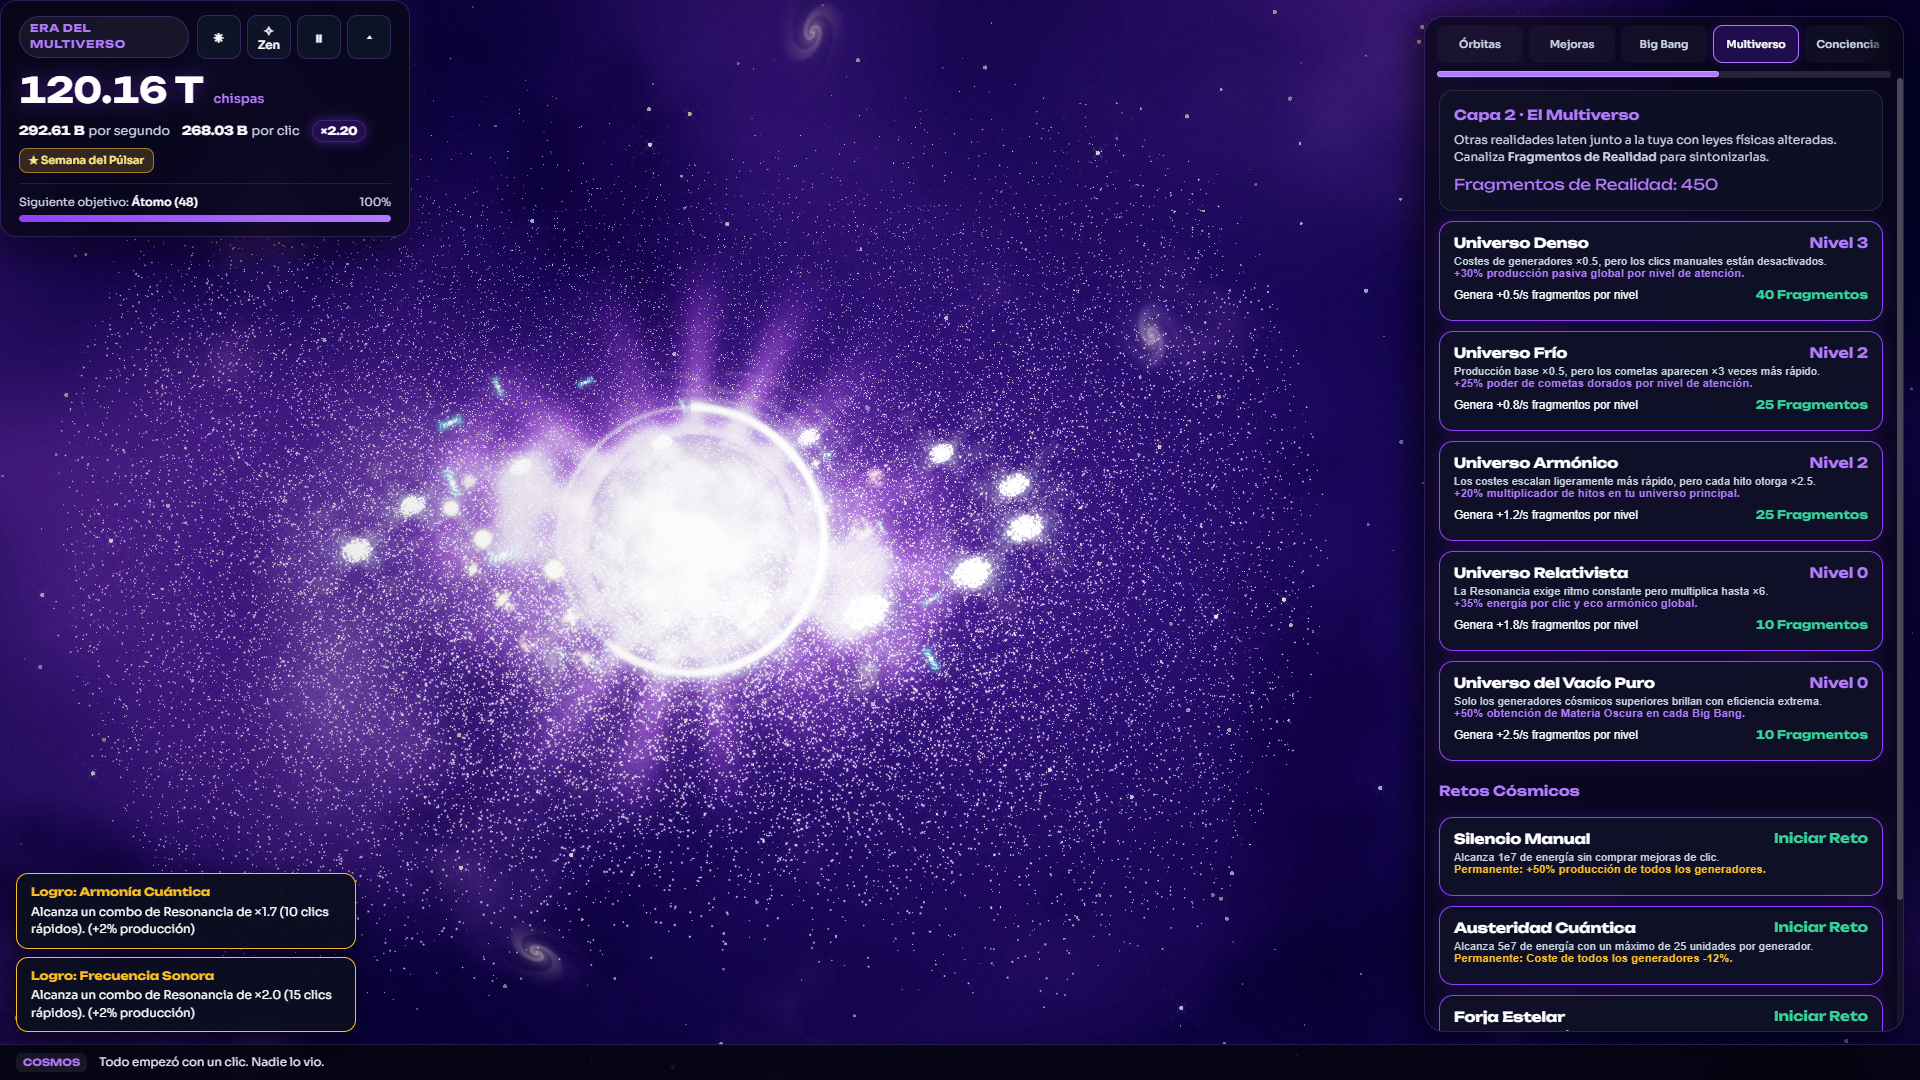
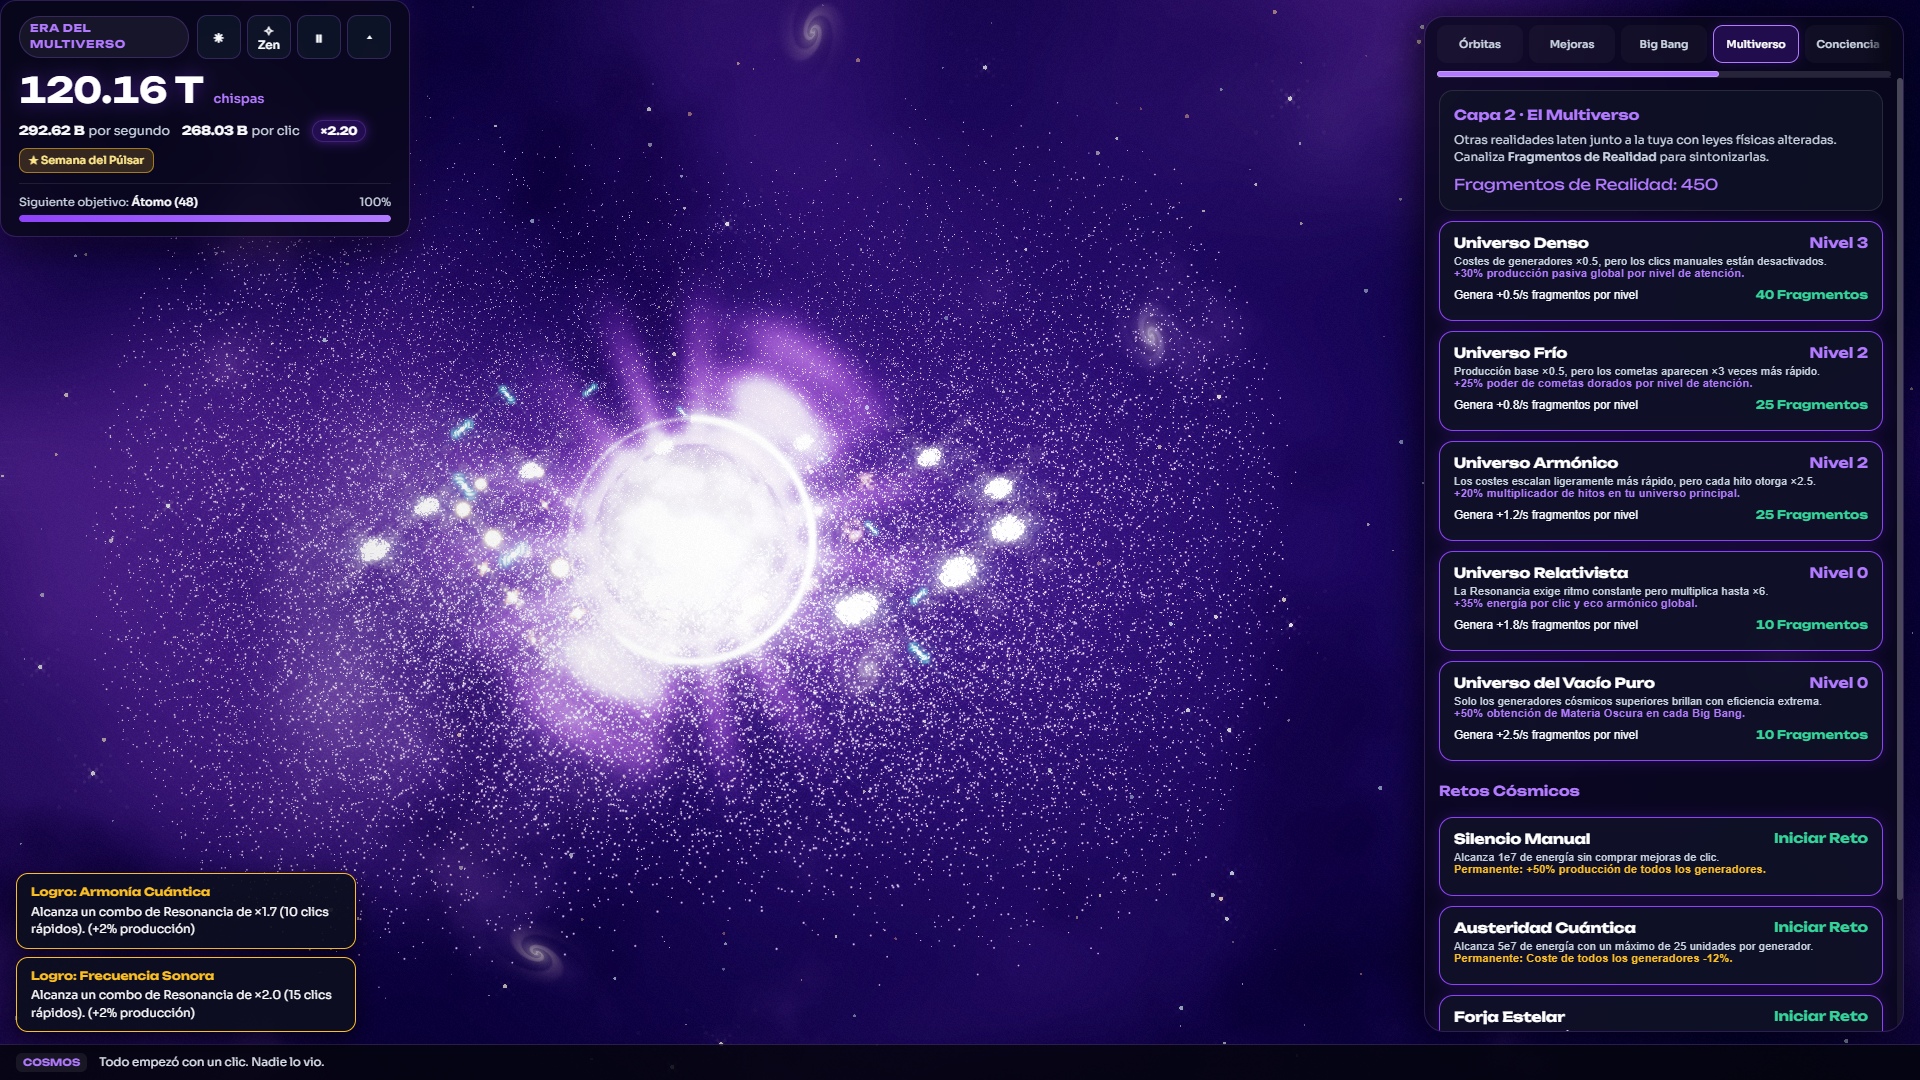
feat(G6): cinematic Big Bang with slow-motion, camera zoom, shockwave distortion, and era transitions

Changed region(s): [[0.0625, 0.2444, 0.6562, 0.825]]

diff --git a/src/render/SceneManager.ts b/src/render/SceneManager.ts
@@ -37,9 +37,12 @@ export class SceneManager {
   private cameraZoom = 1.0;
   private targetCameraZoom = 1.0;
 
-  // Big Bang cinematic sequence
-  private bigBangSequenceTimer = 0; // > 0 when playing Big Bang animation
+  // Big Bang cinematic sequence (6.0 s total: zoom + implosion + 1.5 s slow-motion + shockwave distortion + flash + pull-back rebirth)
+  private bigBangSequenceTimer = 0;
   private bigBangImplosion = 0;
+  private bigBangStateResetDone = false;
+  private bigBangDistortionTriggered = false;
+  public sceneTimeScale = 1.0;
   private onBigBangCompleteCallback?: () => void;
 
   // Pointer parallax
@@ -186,7 +189,14 @@ export class SceneManager {
           duration: caughtComet.duration,
           name: caughtComet.name,
         });
+        const w = Math.max(1, this.app.screen.width);
+        const h = Math.max(1, this.app.screen.height);
         this.postProcess.triggerChromaticPulse(0.004);
+        this.postProcess.triggerEraBloomPulse();
+        this.postProcess.triggerShockwaveDistortion(px / w, py / h, 0.010, 0.75);
+        if (!this.quality.reduceMotion) {
+          this.shakeIntensity = 4.5;
+        }
         this.onCometCaught?.(caughtComet, px, py, res.description);
         return;
       }
@@ -228,25 +238,32 @@ export class SceneManager {
           this.shakeIntensity = 6.0;
         }
       } else if (event === 'era_change') {
+        const w = Math.max(1, this.app.screen.width);
+        const h = Math.max(1, this.app.screen.height);
         const newEra = data.newEra;
         this.startHue = this.currentHue;
         this.targetHue = newEra.hue;
         this.hueLerpTimer = 0;
-        this.targetCameraZoom = 1.04;
+        this.targetCameraZoom = 1.06;
         setTimeout(() => {
-          this.targetCameraZoom = 1.0;
-        }, 1400);
-        this.postProcess.triggerChromaticPulse(0.004);
+          if (this.bigBangSequenceTimer <= 0) {
+            this.targetCameraZoom = 1.0;
+          }
+        }, 1600);
+        this.postProcess.triggerChromaticPulse(0.005);
         this.postProcess.triggerEraBloomPulse();
+        this.postProcess.triggerShockwaveDistortion(cx / w, cy / h, 0.014, 1.05);
       }
     });
   }
 
   /**
-   * Play cinematic Big Bang implosion -> flash -> rebirth sequence.
+   * Play cinematic Big Bang implosion -> slow-motion -> shockwave distortion -> flash -> pull-back rebirth sequence (6.0 s).
    */
   public playBigBangCinematic(onComplete: () => void): void {
-    this.bigBangSequenceTimer = 2.4;
+    this.bigBangSequenceTimer = 6.0;
+    this.bigBangStateResetDone = false;
+    this.bigBangDistortionTriggered = false;
     this.onBigBangCompleteCallback = onComplete;
   }
 
@@ -273,10 +290,13 @@ export class SceneManager {
   public update(dt: number): void {
     if (document.visibilityState === 'hidden') return;
 
-    this.elapsedSeconds += dt;
     this.quality.update(dt);
     const profile = this.quality.getProfile();
     this.effectsLayer.setMaxParticles(profile.maxParticles);
+
+    const { cx, cy, minSide } = this.getSceneCenter();
+    const w = Math.max(1, this.app.screen.width);
+    const h = Math.max(1, this.app.screen.height);
 
     // 1. Era Hue 3-second smooth transition
     if (this.hueLerpTimer < 3.0) {
@@ -295,30 +315,63 @@ export class SceneManager {
       }
     }
 
-    // 2. Big Bang Cinematic sequence handling
+    // 2. Big Bang Cinematic sequence handling (6.0 s total)
+    this.sceneTimeScale = 1.0;
     if (this.bigBangSequenceTimer > 0) {
       this.bigBangSequenceTimer -= dt;
-      if (this.bigBangSequenceTimer > 0.9) {
-        // Implosion phase (2.4 -> 0.9)
-        const p = 1 - (this.bigBangSequenceTimer - 0.9) / 1.5;
+      if (this.bigBangSequenceTimer > 4.2) {
+        // Phase 1 (0.0 s -> 1.8 s): Camera zoom to core, orbital implosion, 1.5 s slow-motion (timeScale x 0.3), overexposure & god rays
+        const elapsedInPhase = 6.0 - this.bigBangSequenceTimer;
+        const p = Math.min(1.0, elapsedInPhase / 1.8);
         this.bigBangImplosion = p * p;
-        this.postProcess.triggerChromaticPulse(0.006 * p);
+        this.targetCameraZoom = this.quality.reduceMotion ? 1.0 : 1.0 + 0.38 * p;
+
+        // 1.5 s slow-motion window (from 0.3 s to 1.8 s)
+        if (elapsedInPhase >= 0.3) {
+          this.sceneTimeScale = 0.3;
+        }
+
+        // Overexposure with god rays & pre-detonation shockwave distortion
+        this.sparkCore.triggerClickKick();
+        this.postProcess.triggerChromaticPulse(0.008 * p);
+        if (elapsedInPhase >= 0.5 && !this.bigBangDistortionTriggered) {
+          this.bigBangDistortionTriggered = true;
+          this.postProcess.triggerEraBloomPulse();
+          this.postProcess.triggerShockwaveDistortion(cx / w, cy / h, 0.022, 1.25);
+        }
+      } else if (!this.bigBangStateResetDone) {
+        // Phase 2 (1.8 s climax): Singularity detonation, screen-space shockwave distortion, white-hot flash & universe rebirth
+        this.bigBangStateResetDone = true;
+        this.bigBangImplosion = 0;
+        this.sceneTimeScale = 1.0;
+        this.postProcess.triggerFlash(1.0);
+        this.postProcess.triggerEraBloomPulse();
+        this.postProcess.triggerChromaticPulse(0.010);
+        this.postProcess.triggerShockwaveDistortion(cx / w, cy / h, 0.028, 1.45);
+        this.effectsLayer.spawnBurst(cx, cy, 240, 0xffffff, 480, 1.6, 4.2);
+        this.effectsLayer.spawnShockwave(cx, cy, minSide * 0.92, 0xffffff, 1.35, 5.5);
+        this.effectsLayer.spawnShockwave(cx, cy, minSide * 0.65, 0x38bdf8, 1.05, 3.8);
+        if (!this.quality.reduceMotion) {
+          this.shakeIntensity = 11.0;
+        }
+        this.onBigBangCompleteCallback?.();
+        this.onBigBangCompleteCallback = undefined;
       } else if (this.bigBangSequenceTimer > 0) {
-        // Explosion & Rebirth flash phase
-        if (this.bigBangImplosion > 0) {
-          this.bigBangImplosion = 0;
-          this.postProcess.triggerFlash(1.0);
-          this.postProcess.triggerChromaticPulse(0.008);
-          const { cx, cy, minSide } = this.getSceneCenter();
-          this.effectsLayer.spawnBurst(cx, cy, 120, 0xffffff, 420, 1.4, 3.8);
-          this.effectsLayer.spawnShockwave(cx, cy, minSide * 0.85, 0xffffff, 1.2, 5.0);
-          this.onBigBangCompleteCallback?.();
-          this.onBigBangCompleteCallback = undefined;
+        // Phase 3 (1.8 s -> 6.0 s): Rebirth with camera pulling back smoothly
+        this.bigBangImplosion = 0;
+        if (this.bigBangSequenceTimer > 2.1) {
+          this.targetCameraZoom = this.quality.reduceMotion ? 1.0 : 0.95;
+        } else {
+          this.targetCameraZoom = 1.0;
         }
       } else {
         this.bigBangImplosion = 0;
+        this.targetCameraZoom = 1.0;
       }
     }
+
+    const effectiveDt = dt * this.sceneTimeScale;
+    this.elapsedSeconds += effectiveDt;
 
     // 3. Comet automatic spawner (every 50-110s, faster with dm_comet_magnet)
     this.cometSpawnTimer += dt;
@@ -329,10 +382,9 @@ export class SceneManager {
       this.forceSpawnComet();
     }
 
-    const { cx, cy, minSide } = this.getSceneCenter();
     this.sparkCore.container.position.set(cx, cy);
 
-    // 4. Camera micro-shake & zoom
+    // 4. Camera micro-shake & zoom pivoted around scene center
     let offsetX = 0;
     let offsetY = 0;
     if (this.shakeIntensity > 0.1 && !this.quality.reduceMotion) {
@@ -343,8 +395,10 @@ export class SceneManager {
       this.shakeIntensity = 0;
     }
 
-    this.cameraZoom += (this.targetCameraZoom - this.cameraZoom) * Math.min(1, dt * 4);
-    this.worldContainer.position.set(offsetX, offsetY);
+    this.cameraZoom += (this.targetCameraZoom - this.cameraZoom) * Math.min(1, dt * 4.5);
+    this.worldContainer.pivot.set(cx, cy);
+    this.worldContainer.position.set(cx + offsetX, cy + offsetY);
+    this.worldContainer.scale.set(this.cameraZoom);
 
     // 5. Update Sky, Orbits, SparkCore, Effects, and PostProcess
     this.skyLayer.update(
@@ -360,7 +414,7 @@ export class SceneManager {
 
     this.orbitsLayer.syncWithState(this.sim.state.generators);
     this.orbitsLayer.update(
-      dt,
+      effectiveDt,
       this.elapsedSeconds,
       cx,
       cy,
@@ -396,7 +450,7 @@ export class SceneManager {
 
     const autoComets = this.sim.state.darkMatterUpgrades?.includes('dm_auto_comets') ?? false;
     this.effectsLayer.update(
-      dt,
+      effectiveDt,
       autoComets,
       (def, x, y) => {
         const res = this.sim.catchComet({
@@ -405,6 +459,11 @@ export class SceneManager {
           duration: def.duration,
           name: def.name,
         });
+        this.postProcess.triggerEraBloomPulse();
+        this.postProcess.triggerShockwaveDistortion(x / w, y / h, 0.009, 0.7);
+        if (!this.quality.reduceMotion) {
+          this.shakeIntensity = 4.0;
+        }
         this.onCometCaught?.(def, x, y, res.description);
       },
       cx,

diff --git a/src/ui/UIManager.ts b/src/ui/UIManager.ts
@@ -806,6 +806,7 @@ export class UIManager {
         return;
       }
       this.bigBangArmed = false;
+      this.renderBigBangTab();
       this.audio.playBigBang();
       this.scene.playBigBangCinematic(() => {
         const res = this.sim.triggerBigBang();

diff --git a/docs/DECISIONES.md b/docs/DECISIONES.md
@@ -94,3 +94,12 @@ Este documento registra todas las decisiones arquitectónicas, de diseño y de b
 - **Decisión:**
   - Sustituir el bucle de actualización de partículas en CPU por un sistema de `50.000` partículas en GPU (`topology: 'point-list'` en `EffectsLayer.ts`) dividido en `44.000` partículas permanentes de polvo orbital/cósmico (cuya órbita kepleriana inclinada, turbulencia armónica y colapso en el Big Bang se evalúan de forma analítica en el *vertex shader* con `0` coste de CPU) y un *ring buffer* de `6.000` ranuras para ráfagas de clic, hitos y estelas de cometas con integración analítica de rozamiento ($x(t) = x_0 + v_0 (1 - e^{-kt})/k$).
   - Ampliar `SkyLayer.ts` a 4 capas de nebulosa con desenfoque progresivo por profundidad (de 2 a 5 octavas FBM y absorción oscura de Beer-Lambert), galaxias espirales y elípticas lejanas procedurales en el campo profundo, `270` estrellas con temperatura de color de cuerpo negro (`3.200 K` a `25.000 K`), destellos de difracción de 4/6 puntas en las más brillantes y estrellas fugaces ocasionales.
+
+---
+
+## ADR 010 · Fase G6 (v1.1): Cinemática de Big Bang con Cámara Lenta, Onda de Choque en Pantalla y Transiciones de Era
+- **Fecha:** Fase G6 (`v1.1.0`)
+- **Estado:** Aprobado
+- **Decisión:**
+  - Ampliar la secuencia cinemática del Big Bang a `6,0 s` con pivote de cámara centrado en el núcleo (`worldContainer.pivot`), zoom progresivo hasta `1.38×`, contracción orbital y de las `50.000` partículas hacia la singularidad, ventana de **cámara lenta (`sceneTimeScale = 0.3` durante `1,5 s`)**, sobreexposición con *god rays*, **distorsión de onda de choque en espacio de pantalla** (`triggerShockwaveDistortion`), destello HDR y renacimiento con retroceso suave de cámara.
+  - Enriquecer los cambios de era (pulso de bloom + distorsión radial + transición de color de `3,0 s`) y los hitos/cometas (estela de partículas GPU, destello de lente anamórfico en cruz y sacudida suave de cámara que respeta `prefers-reduced-motion`).

diff --git a/docs/PROGRESO.md b/docs/PROGRESO.md
@@ -15,8 +15,8 @@
 | **Fase G3** | Núcleo «Chispa» con detalle y variantes por era | **Completado** | 2026-11-08 | 2026-11-08 | Superficie FBM con domain warping, limb darkening, god rays 28 muestras y 5 variantes |
 | **Fase G4** | 16 cuerpos con shader propio e instanciación | **Completado** | 2026-11-08 | 2026-11-08 | 16 shaders procedurales + 3.460 sub-estrellas instanciadas en GPU a >120 FPS |
 | **Fase G5** | Partículas en GPU (50.000) y cielo en capas | **Completado** | 2026-11-08 | 2026-11-08 | 50.000 partículas en Alta a 145 FPS; paralaje, galaxias lejanas y estrellas con temperatura |
-| **Fase G6** | Cinemática (Big Bang con cámara lenta y onda de choque, eras, cometas) | **En progreso** | 2026-11-08 | — | Big Bang y cambio de era completos, con cámara lenta y distorsión |
-| **Fase G7** | QA, medición realista de rendimiento y entrega `v1.1.0` | Pendiente | — | — | Capturas A–G antes/después, `docs/RENDIMIENTO.md` con datos reales, tag `v1.1.0` |
+| **Fase G6** | Cinemática (Big Bang con cámara lenta y onda de choque, eras, cometas) | **Completado** | 2026-11-08 | 2026-11-08 | Big Bang de 6 s con cámara lenta 1,5 s, zoom, distorsión y transiciones de era |
+| **Fase G7** | QA, medición realista de rendimiento y entrega `v1.1.0` | **En progreso** | 2026-11-08 | — | Capturas A–G antes/después, `docs/RENDIMIENTO.md` con datos reales, tag `v1.1.0` |
 
 ---
 
